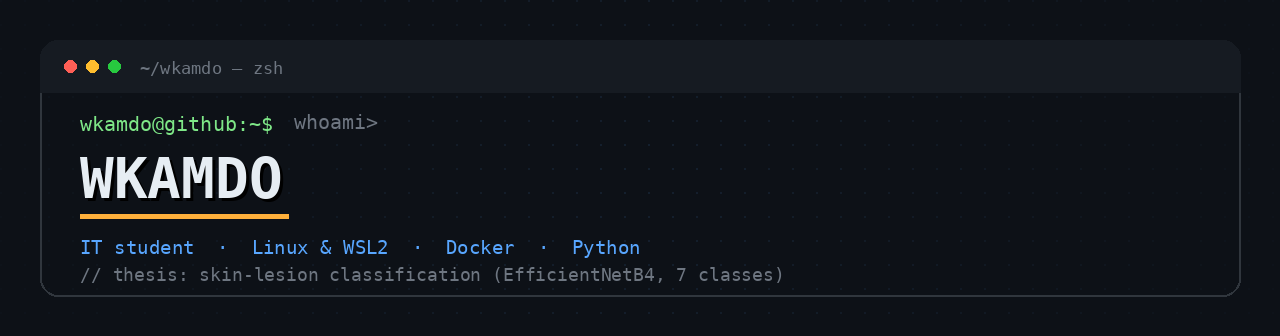
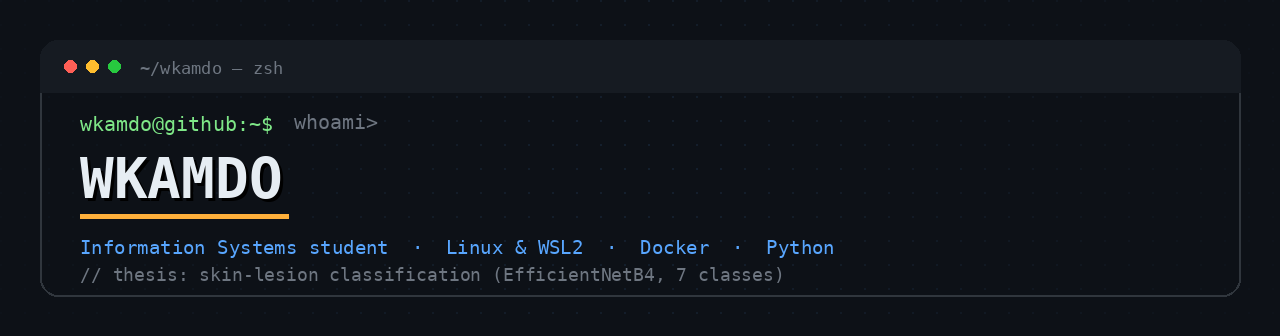
Identitas: Sistem Informasi; pisahkan karya pribadi dari tugas kuliah

Changed region(s): [[0.0625, 0.7143, 0.3125, 0.7738], [0.3438, 0.7143, 0.5625, 0.7738], [0.5938, 0.7143, 0.6562, 0.7738]]

diff --git a/tools/generate_banner.py b/tools/generate_banner.py
@@ -24,7 +24,7 @@ AKAR = os.path.dirname(os.path.dirname(os.path.abspath(__file__)))
 ASSETS = os.path.join(AKAR, "assets")
 
 NAMA = "WKAMDO"
-TAGLINE = "IT student  ·  Linux & WSL2  ·  Docker  ·  Python"
+TAGLINE = "Information Systems student  ·  Linux & WSL2  ·  Docker  ·  Python"
 BARIS = [
     "thesis: skin-lesion classification (EfficientNetB4, 7 classes)",
     "usually found in: terminal, docker-compose, and error logs",

diff --git a/README.md b/README.md
@@ -2,7 +2,7 @@
 
 <img src="assets/banner.gif" alt="Wkamdo" width="100%">
 
-<a href="https://git.io/typing-svg"><img src="https://readme-typing-svg.demolab.com?font=JetBrains+Mono&weight=600&size=22&pause=900&color=58A6FF&center=true&vCenter=true&width=760&lines=IT+student+in+Indonesia;Linux+%26+WSL2+%2B+Docker+everyday+driver;Python+for+data%2C+PHP+when+the+web+needs+it;Currently%3A+multi-class+skin-lesion+classification+(EfficientNetB4)" alt="typing"></a>
+<a href="https://git.io/typing-svg"><img src="https://readme-typing-svg.demolab.com?font=JetBrains+Mono&weight=600&size=22&pause=900&color=58A6FF&center=true&vCenter=true&width=760&lines=Information+Systems+student+in+Indonesia;Linux+%26+WSL2+%2B+Docker+everyday+driver;Python+for+data%2C+PHP+when+the+web+needs+it;Currently%3A+multi-class+skin-lesion+classification+(EfficientNetB4)" alt="typing"></a>
 
 <a href="https://discord.com/users/512213893054070785"><img src="https://img.shields.io/badge/Discord-5865F2?style=for-the-badge&logo=discord&logoColor=white" alt="Discord"></a>
 <a href="https://github.com/Wkamdo?tab=repositories"><img src="https://img.shields.io/badge/Repos-181717?style=for-the-badge&logo=github&logoColor=white" alt="Repos"></a>
@@ -12,7 +12,7 @@
 
 ## About
 
-Saya mahasiswa IT di Indonesia. Sebagian besar waktu habis di terminal: WSL2 di Windows,
+Saya mahasiswa Sistem Informasi di Indonesia. Sebagian besar waktu habis di terminal: WSL2 di Windows,
 Docker untuk apa pun yang perlu hidup berdampingan, dan Python untuk mengolah data.
 
 - **Sedang dikerjakan:** skripsi klasifikasi multi-kelas lesi kulit (EfficientNetB4 + HAM10000, 7 kelas, 45 run dengan 9 seed)
@@ -45,14 +45,23 @@ Docker untuk apa pun yang perlu hidup berdampingan, dan Python untuk mengolah da
 
 </div>
 
-## Selected work
+## What I build
 
-| Repositori | Isi |
+| Proyek | Isi |
 |---|---|
-| [pemrograman-bergerak-4C-2024](https://github.com/Wkamdo/pemrograman-bergerak-4C-2024) | Tugas kuliah pemrograman mobile |
-| [sistem-manajemen-basis-data-4B-2024](https://github.com/Wkamdo/sistem-manajemen-basis-data-4B-2024) | Basis data: perancangan dan implementasi |
-| KP *(kerja praktik)* | Repositori privat — tidak ditautkan |
-| [Program-menghitung-volume-Balok-dan-Kubus](https://github.com/Wkamdo/Program-menghitung-volume-Balok-dan-Kubus) | Latihan dasar, masih berguna untuk mengingat sintaks |
+| **Skripsi — klasifikasi lesi kulit** | EfficientNetB4 + HAM10000, 7 kelas, 45 run (5 skenario x 9 seed), split level lesi yang dibekukan. Repositori dibuka setelah sidang. |
+| [Program-menghitung-volume-Balok-dan-Kubus](https://github.com/Wkamdo/Program-menghitung-volume-Balok-dan-Kubus) | Latihan awal Python: dari dua skrip sederhana sampai versi ber-fungsi dengan validasi masukan dan uji unit (`unittest`). |
+
+## Coursework
+
+Repositori di bawah ini adalah **tugas mata kuliah bersama**, bukan proyek pribadi. Isinya
+kiriman seluruh kelas (termasuk milik saya), jadi saya tidak mengubah atau mengklaimnya
+sebagai karya sendiri:
+
+| Repositori | Mata kuliah |
+|---|---|
+| [pemrograman-bergerak-4C-2024](https://github.com/Wkamdo/pemrograman-bergerak-4C-2024) | Pemrograman bergerak — wadah latihan pull request per mahasiswa |
+| [sistem-manajemen-basis-data-4B-2024](https://github.com/Wkamdo/sistem-manajemen-basis-data-4B-2024) | Sistem manajemen basis data — folder `modul-1` s.d. `modul-7` |
 
 ## Reach me
 
